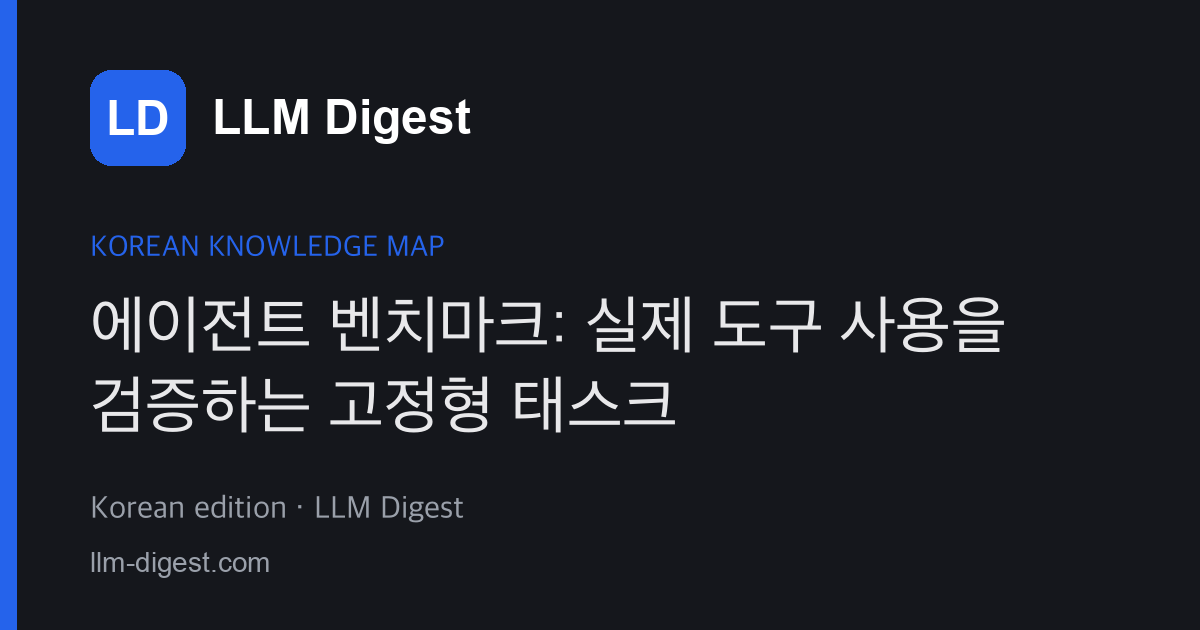
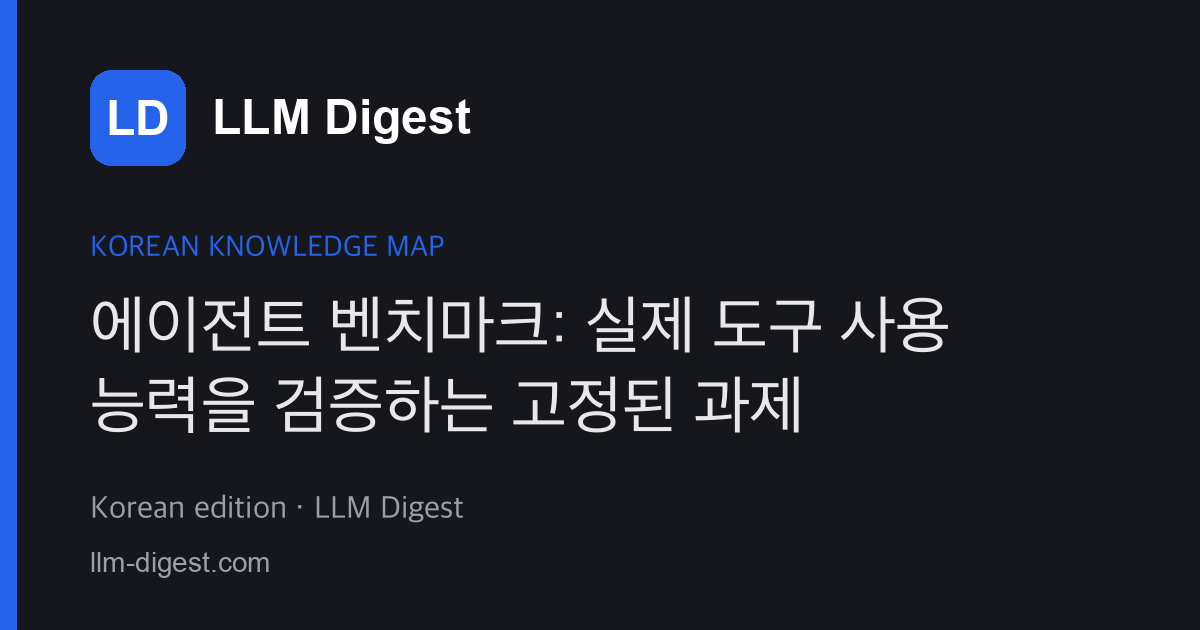
chore(data): refresh Korean feed snapshots, static pages, and OG cards

Changed region(s): [[0.0617, 0.573, 0.6783, 0.6937], [0.8017, 0.4524, 0.8325, 0.573]]

diff --git a/web/ko/topic/agent-benchmarks.html b/web/ko/topic/agent-benchmarks.html
@@ -3,8 +3,8 @@
 <head>
   <meta charset="UTF-8" />
   <meta name="viewport" content="width=device-width, initial-scale=1.0, maximum-scale=1.0, user-scalable=no" />
-  <title>에이전트 벤치마크: 실제 도구 사용을 검증하는 고정형 태스크 | LLM Digest</title>
-  <meta name="description" content="에이전트 벤치마크: 실제 도구 사용을 검증하는 고정형 태스크" />
+  <title>에이전트 벤치마크: 실제 도구 사용 능력을 검증하는 고정된 과제 | LLM Digest</title>
+  <meta name="description" content="에이전트 벤치마크: 실제 도구 사용 능력을 검증하는 고정된 과제" />
   <link rel="canonical" href="https://www.llm-digest.com/ko/topic/agent-benchmarks" />
   <link rel="alternate" hreflang="ko" href="https://www.llm-digest.com/ko/topic/agent-benchmarks" />
   <link rel="alternate" hreflang="en" href="https://www.llm-digest.com/topic/agent-benchmarks" />
@@ -15,15 +15,15 @@
   <link rel="manifest" href="/site.webmanifest" />
   <meta property="og:type" content="article" />
   <meta property="og:site_name" content="LLM Digest" />
-  <meta property="og:title" content="에이전트 벤치마크: 실제 도구 사용을 검증하는 고정형 태스크" />
-  <meta property="og:description" content="에이전트 벤치마크: 실제 도구 사용을 검증하는 고정형 태스크" />
+  <meta property="og:title" content="에이전트 벤치마크: 실제 도구 사용 능력을 검증하는 고정된 과제" />
+  <meta property="og:description" content="에이전트 벤치마크: 실제 도구 사용 능력을 검증하는 고정된 과제" />
   <meta property="og:url" content="https://www.llm-digest.com/ko/topic/agent-benchmarks" />
   <meta property="og:image" content="https://www.llm-digest.com/og/topic-agent-benchmarks-ko.png" />
   <meta name="twitter:image" content="https://www.llm-digest.com/og/topic-agent-benchmarks-ko.png" />
   <meta name="twitter:card" content="summary_large_image" />
-  <meta name="twitter:title" content="에이전트 벤치마크: 실제 도구 사용을 검증하는 고정형 태스크" />
-  <meta name="twitter:description" content="에이전트 벤치마크: 실제 도구 사용을 검증하는 고정형 태스크" />
-  <script type="application/ld+json">{"@context": "https://schema.org", "@graph": [{"@type": "Article", "headline": "에이전트 벤치마크: 실제 도구 사용을 검증하는 고정형 태스크", "description": "Pin down a fixed set of tasks with known good outcomes and run agents against them repeatedly. Unlike model benchmarks, agent benchmarks have to exercise *tool use and multi-step trajectories* — booking, querying, fixing, coordinating — so they…", "datePublished": null, "mainEntityOfPage": "https://www.llm-digest.com/topic/agent-benchmarks", "publisher": {"@type": "Organization", "name": "LLM Digest", "url": "https://www.llm-digest.com/", "logo": {"@type": "ImageObject", "url": "https://www.llm-digest.com/logo.png"}}}, {"@type": "BreadcrumbList", "itemListElement": [{"@type": "ListItem", "position": 1, "name": "Home", "item": "https://www.llm-digest.com/"}, {"@type": "ListItem", "position": 2, "name": "Knowledge map", "item": "https://www.llm-digest.com/map"}, {"@type": "ListItem", "position": 3, "name": "에이전트 벤치마크: 실제 도구 사용을 검증하는 고정형 태스크", "item": "https://www.llm-digest.com/topic/agent-benchmarks"}]}]}</script>
+  <meta name="twitter:title" content="에이전트 벤치마크: 실제 도구 사용 능력을 검증하는 고정된 과제" />
+  <meta name="twitter:description" content="에이전트 벤치마크: 실제 도구 사용 능력을 검증하는 고정된 과제" />
+  <script type="application/ld+json">{"@context": "https://schema.org", "@graph": [{"@type": "Article", "headline": "에이전트 벤치마크: 실제 도구 사용 능력을 검증하는 고정된 과제", "description": "Pin down a fixed set of tasks with known good outcomes and run agents against them repeatedly. Unlike model benchmarks, agent benchmarks have to exercise *tool use and multi-step trajectories* — booking, querying, fixing, coordinating — so they…", "datePublished": null, "mainEntityOfPage": "https://www.llm-digest.com/topic/agent-benchmarks", "publisher": {"@type": "Organization", "name": "LLM Digest", "url": "https://www.llm-digest.com/", "logo": {"@type": "ImageObject", "url": "https://www.llm-digest.com/logo.png"}}}, {"@type": "BreadcrumbList", "itemListElement": [{"@type": "ListItem", "position": 1, "name": "Home", "item": "https://www.llm-digest.com/"}, {"@type": "ListItem", "position": 2, "name": "Knowledge map", "item": "https://www.llm-digest.com/map"}, {"@type": "ListItem", "position": 3, "name": "에이전트 벤치마크: 실제 도구 사용 능력을 검증하는 고정된 과제", "item": "https://www.llm-digest.com/topic/agent-benchmarks"}]}]}</script>
   <link rel="alternate" type="application/rss+xml" title="LLM Digest feed" href="/rss.xml" />
   <link rel="stylesheet" href="https://oat.ink/oat.min.css" />
   <link rel="stylesheet" href="/site-chrome.css?v=20260706-mobile-header-wrap" />
@@ -322,7 +322,7 @@
         <a href="/subscribe" data-site-destination="/subscribe">Email digest</a>
       </nav>
       <div class="site-actions-fallback" aria-label="Page actions">
-        <button type="button" class="menu-share" data-share-url="https://www.llm-digest.com/ko/topic/agent-benchmarks" data-share-title="에이전트 벤치마크: 실제 도구 사용을 검증하는 고정형 태스크">Share this page</button>
+        <button type="button" class="menu-share" data-share-url="https://www.llm-digest.com/ko/topic/agent-benchmarks" data-share-title="에이전트 벤치마크: 실제 도구 사용 능력을 검증하는 고정된 과제">Share this page</button>
         <a class="site-language-action" href="/topic/agent-benchmarks" data-language-link data-language-locale="en" hidden aria-label="Read this page in English" title="Read in English"><span aria-hidden="true">🌐</span><span>EN</span></a>
         <button id="themeToggle" type="button" aria-label="Toggle theme" title="Toggle theme">🌙</button>
       </div>
@@ -331,7 +331,7 @@
     </header>
 
     <section id="recap">
-      <section class="wiki-hero"><p class="wiki-kicker">Agent engineering · knowledge map</p><h2 class="wiki-headline">에이전트 벤치마크: 실제 도구 사용을 검증하는 고정형 태스크</h2><p class="wiki-readout"><span class="on">🛠 Solution</span><span class="sep">·</span>active<span class="sep">·</span>24 sources<span class="sep">·</span>updated 2026-07-07</p></section>
+      <section class="wiki-hero"><p class="wiki-kicker">Agent engineering · knowledge map</p><h2 class="wiki-headline">에이전트 벤치마크: 실제 도구 사용 능력을 검증하는 고정된 과제</h2><p class="wiki-readout"><span class="on">🛠 Solution</span><span class="sep">·</span>active<span class="sep">·</span>24 sources<span class="sep">·</span>updated 2026-07-07</p></section>
       <!-- range is included in the custom hero -->
 
       <div class="topic"><div class="topic-lead"><p>Pin down a fixed set of tasks with known good outcomes and run agents against them repeatedly. Unlike model benchmarks, agent benchmarks have to exercise *tool use and multi-step trajectories* — booking, querying, fixing, coordinating — so they double as integration tests for the whole agent, not just the model.</p></div>
